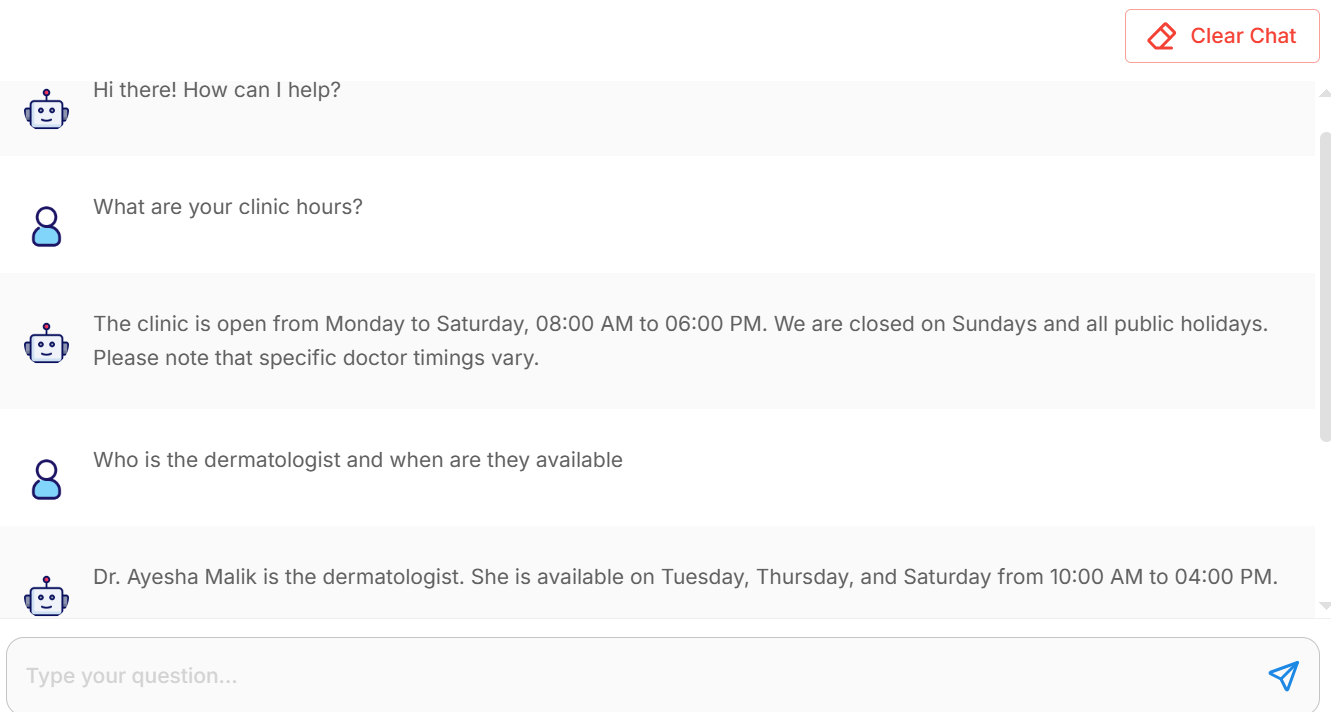
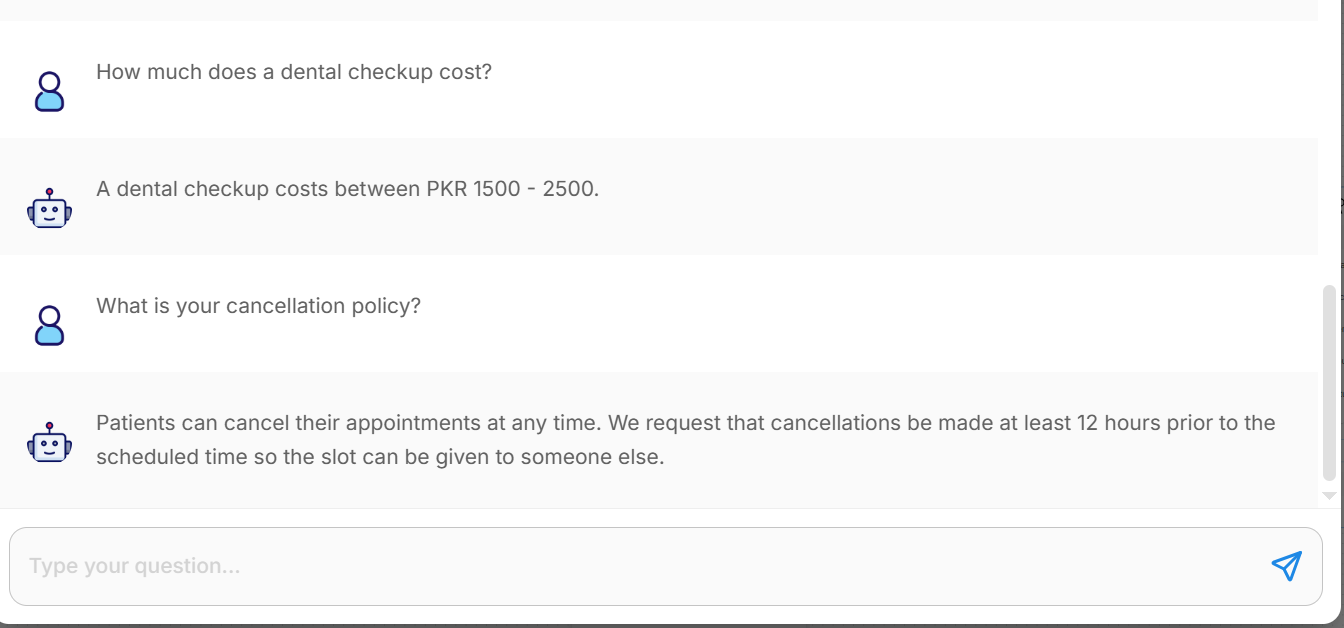
Fix screenshot numbering in Week 2

diff --git a/Week 2/Week_2_Deliverables.md b/Week 2/Week_2_Deliverables.md
@@ -22,6 +22,6 @@ This JSON file is the exported Chatflow containing the visual nodes, connections
 Below are the screenshots demonstrating the AI agent correctly reading the knowledge base and answering patient queries:
 
 ![RAG Test 1](./screenshots/RAG_Test_01.png)
+![RAG Test 2](./screenshots/RAG_Test_02.png)
 ![RAG Test 3](./screenshots/RAG_Test_03.png)
 ![RAG Test 4](./screenshots/RAG_Test_04.png)
-![RAG Test 5](./screenshots/RAG_Test_05.png)
